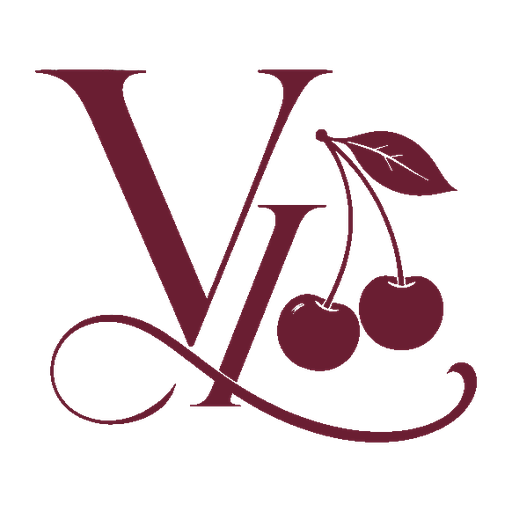
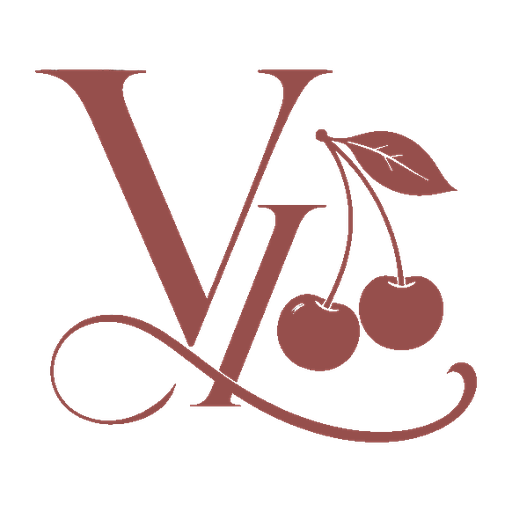
Add files via upload

diff --git a/src/app/api/contato/route.ts b/src/app/api/contato/route.ts
@@ -1,0 +1,69 @@
+import { NextResponse } from 'next/server';
+import { createAdminClient } from '@/lib/supabase/admin';
+
+// E-mail que recebe as notificações do formulário de contato.
+// Pode trocar por variável de ambiente CONTACT_EMAIL_TO se quiser mudar sem editar código.
+const CONTACT_EMAIL_TO = process.env.CONTACT_EMAIL_TO || 'vetterluxury@gmail.com';
+
+export async function POST(request: Request) {
+  const { nome, email, telefone, mensagem } = await request.json();
+
+  if (!nome || !email || !mensagem) {
+    return NextResponse.json({ error: 'Preencha nome, e-mail e mensagem.' }, { status: 400 });
+  }
+
+  const supabase = createAdminClient();
+
+  // 1) Salva a mensagem no banco (histórico, visível em /admin/mensagens)
+  const { data: existing } = await supabase
+    .from('site_settings')
+    .select('value')
+    .eq('key', 'contact_messages')
+    .single();
+
+  const current = Array.isArray(existing?.value) ? existing!.value : [];
+  const novaMensagem = { nome, email, telefone, mensagem, sentAt: new Date().toISOString() };
+
+  const { error: dbError } = await supabase
+    .from('site_settings')
+    .upsert({ key: 'contact_messages', value: [...current, novaMensagem] });
+
+  if (dbError) {
+    return NextResponse.json({ error: 'Não foi possível salvar a mensagem.' }, { status: 500 });
+  }
+
+  // 2) Tenta enviar por e-mail (se RESEND_API_KEY estiver configurada).
+  // Se falhar ou não estiver configurada, a mensagem já foi salva no passo acima mesmo assim.
+  if (process.env.RESEND_API_KEY) {
+    try {
+      await fetch('https://api.resend.com/emails', {
+        method: 'POST',
+        headers: {
+          Authorization: `Bearer ${process.env.RESEND_API_KEY}`,
+          'Content-Type': 'application/json',
+        },
+        body: JSON.stringify({
+          from: 'Vetter Luxury <onboarding@resend.dev>',
+          to: [CONTACT_EMAIL_TO],
+          reply_to: email,
+          subject: `Nova mensagem de ${nome} — Site Vetter Luxury`,
+          html: `
+            <div style="font-family: sans-serif; color: #2E2E2E;">
+              <h2 style="color: #6A1E32;">Nova mensagem pelo site</h2>
+              <p><strong>Nome:</strong> ${nome}</p>
+              <p><strong>E-mail:</strong> ${email}</p>
+              <p><strong>Telefone:</strong> ${telefone || 'não informado'}</p>
+              <p><strong>Mensagem:</strong></p>
+              <p style="white-space: pre-wrap;">${mensagem}</p>
+            </div>
+          `,
+        }),
+      });
+    } catch {
+      // Falha no envio de e-mail não deve impedir a resposta de sucesso —
+      // a mensagem já está salva e visível em /admin/mensagens.
+    }
+  }
+
+  return NextResponse.json({ success: true });
+}

diff --git a/src/app/globals.css b/src/app/globals.css
@@ -5,8 +5,8 @@
 :root {
   --champagne: #f5ebdd;
   --champagne-soft: #f2e7d8;
-  --marsala: #6a1e32;
-  --marsala-dark: #4e1626;
+  --marsala: #964f4c;
+  --marsala-dark: #703b39;
   --gold: #c8a15a;
   --ink: #2e2e2e;
 }
